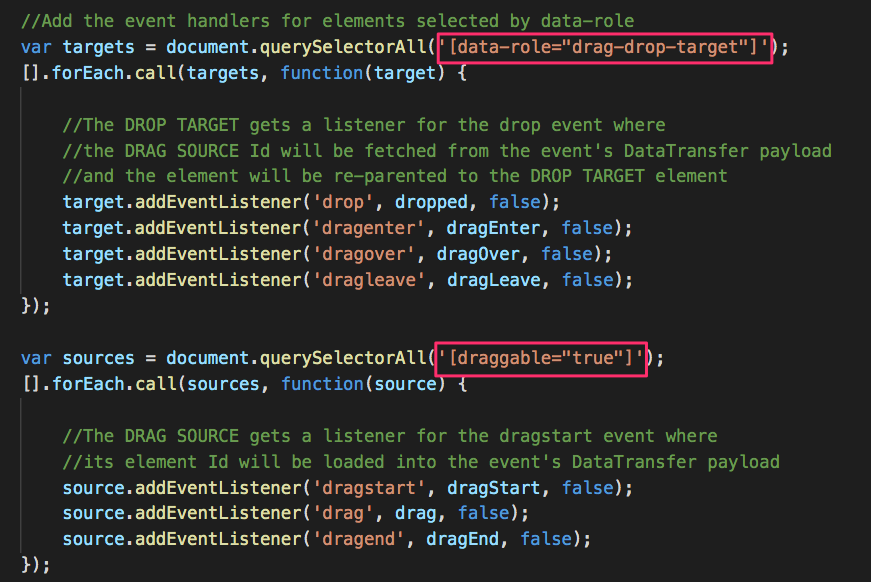
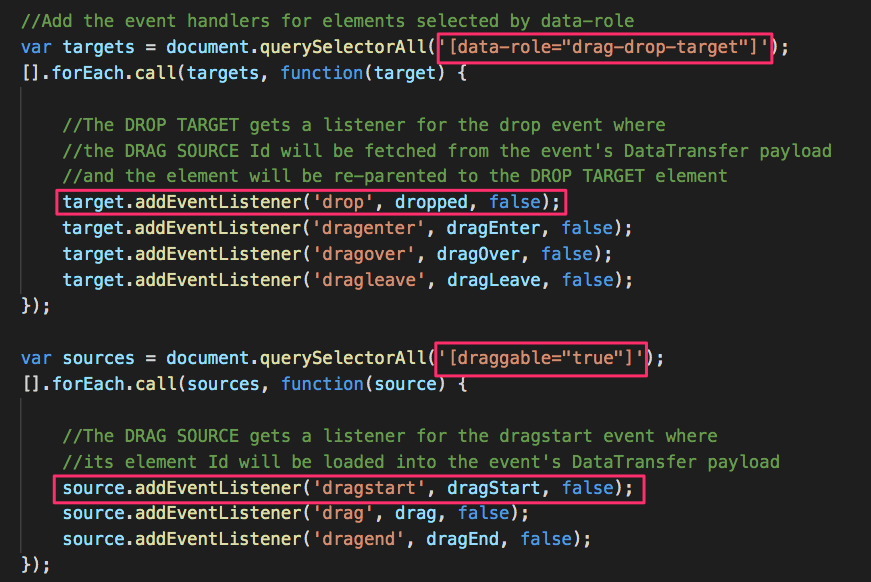
Adjust images for callouts

Changed region(s): [[0.062, 0.8041, 0.744, 0.866], [0.062, 0.3093, 0.651, 0.3711]]

diff --git a/index.html b/index.html
@@ -208,6 +208,7 @@
 					<h8 class="fragment fade-in-then-semi-out">Event Listeners bind to JavaScript Handlers</h8><br/>
 					<h8 class="fragment fade-in-then-semi-out">Handlers set DTO Payload and Drop Effects</h8><br/>					
 					<h8 class="fragment fade-in-then-semi-out">Handlers manipulate the DOM and Data</h8><br/>
+					<h8 class="fragment fade-in-then-semi-out">Only some handlers are required</h8><br/>
 				</section>
 			
 				<section data-transition="fade-in fade-out" data-background-image="img/VD2020LogoUpperRight.png">
@@ -271,7 +272,7 @@
 				<section data-transition="slide-in fade-out" data-background-image="img/VD2020LogoUpperRight.png">
 					<h4><i>(Draggable Element)</i></h4>
 					<h3>The Drag Start event</h3>
-					<h8 class="fragment fade-in-then-semi-out">You must handle this event</h8><br/>					
+					<h8 class="fragment fade-in-then-semi-out">Handling this event is REQUIRED</h8><br/>					
 					<h8 class="fragment fade-in-then-semi-out">Captures the element Id of the Dragged Element</h8><br/>
 					<h8 class="fragment fade-in-then-semi-out">Captures the element Id of the Source Container</h8><br/>					
 					<h8 class="fragment fade-in-then-semi-out">Loads the Data and Drop Effects in the Event DTO</h8><br/>					
@@ -281,47 +282,47 @@
 				<section data-transition="slide-in fade-out" data-background-image="img/VD2020LogoUpperRight.png">
 					<h4><i>(Draggable Element)</i></h4>
 					<h3>The Drag event</h3>
-					<h8 class="fragment fade-in-then-semi-out">Handling this event is optional</h8><br/>					
+					<h8 class="fragment fade-in-then-semi-out">Handling this event is OPTIONAL</h8><br/>					
 					<h8 class="fragment fade-in-then-semi-out">Typically used to affect the CSS presentation</h8><br/>									
 				</section>
 
 				<section data-transition="slide-in fade-out" data-background-image="img/VD2020LogoUpperRight.png">
 					<h4><i>(Draggable Element)</i></h4>
 					<h3>The Drag End event</h3>
-					<h8 class="fragment fade-in-then-semi-out">Handling this event is optional</h8><br/>					
+					<h8 class="fragment fade-in-then-semi-out">Handling this event is OPTIONAL</h8><br/>					
 					<h8 class="fragment fade-in-then-semi-out">Typically used to reset the CSS presentation</h8><br/>									
 				</section>
 
 				<section data-transition="slide-in fade-out" data-background-image="img/VD2020LogoUpperRight.png">
 					<h4><i>(Target Container)</i></h4>
 					<h3>The Drag Enter event</h3>
-					<h8 class="fragment fade-in-then-semi-out">You MUST handle this event</h8><br/>					
-					<h8 class="fragment fade-in-then-semi-out">You MUST short-stop default behavior</h8><br/>									
+					<h8 class="fragment fade-in-then-semi-out">Handling this event is REQUIRED</h8><br/>					
+					<h8 class="fragment fade-in-then-semi-out">The handler MUST call preventDefault()</h8><br/>									
 					<h8 class="fragment fade-in-then-semi-out">Typically used to reset the CSS presentation</h8><br/>									
 				</section>
 
 				<section data-transition="slide-in fade-out" data-background-image="img/VD2020LogoUpperRight.png">
 					<h4><i>(Target Container)</i></h4>
 					<h3>The Drag Over event</h3>
-					<h8 class="fragment fade-in-then-semi-out">You MUST handle this event</h8><br/>					
-					<h8 class="fragment fade-in-then-semi-out">You SHOULD short-stop default behavior</h8><br/>									
+					<h8 class="fragment fade-in-then-semi-out">Handling this event is REQUIRED</h8><br/>					
+					<h8 class="fragment fade-in-then-semi-out">The handler SHOULD call preventDefault()</h8><br/>									
 					<h8 class="fragment fade-in-then-semi-out">Typically used to reset the CSS presentation</h8><br/>									
 				</section>
 
 				<section data-transition="slide-in fade-out" data-background-image="img/VD2020LogoUpperRight.png">
 					<h4><i>(Target Container)</i></h4>
 					<h3>The Drag Leave event</h3>
-					<h8 class="fragment fade-in-then-semi-out">Handling this event is optional</h8><br/>					
+					<h8 class="fragment fade-in-then-semi-out">Handling this event is OPTIONAL</h8><br/>					
 					<h8 class="fragment fade-in-then-semi-out">Typically used to reset the CSS presentation</h8><br/>									
 				</section>
 
 				<section data-transition="slide-in fade-out" data-background-image="img/VD2020LogoUpperRight.png">
 					<h4><i>(Target Container)</i></h4>
 					<h3>The Drop event</h3>
-					<h8 class="fragment fade-in-then-semi-out">You MUST handle this event</h8><br/>					
-					<h8 class="fragment fade-in-then-semi-out">You SHOULD short-stop default behavior and bubbling</h8><br/>									
+					<h8 class="fragment fade-in-then-semi-out">Handling this event is REQUIRED</h8><br/>					
+					<h8 class="fragment fade-in-then-semi-out">The handler SHOULD call preventDefault()</h8><br/>									
 					<h8 class="fragment fade-in-then-semi-out">Processes DOM changes to the Dragged element</h8><br/>									
-					<h8 class="fragment fade-in-then-semi-out">Processes any required data</h8><br/>									
+					<h8 class="fragment fade-in-then-semi-out">Processes any required data or logic</h8><br/>									
 					<h8 class="fragment fade-in-then-semi-out">Typically used to reset the CSS presentation</h8><br/>									
 				</section>
 
@@ -361,6 +362,11 @@
 				<section data-transition="fade-in fade-out" data-background-image="img/VD2020LogoUpperRight.png">
 					<h4>Setting Up The Event Listeners</h4> 
 					<img height="75%" width="75%" src="img/htmlHandlerJSCallout.png" />	
+				</section>
+
+				<section data-transition="fade-in fade-out" data-background-image="img/VD2020LogoUpperRight.png">
+					<h4>DragStart Event Handler</h4> 
+					<img height="75%" width="75%" src="img/htmlDragStartJS.png" />	
 				</section>
 
 				<section data-transition="fade-in fade-out" data-background-image="img/VD2020LogoUpperRight.png">
